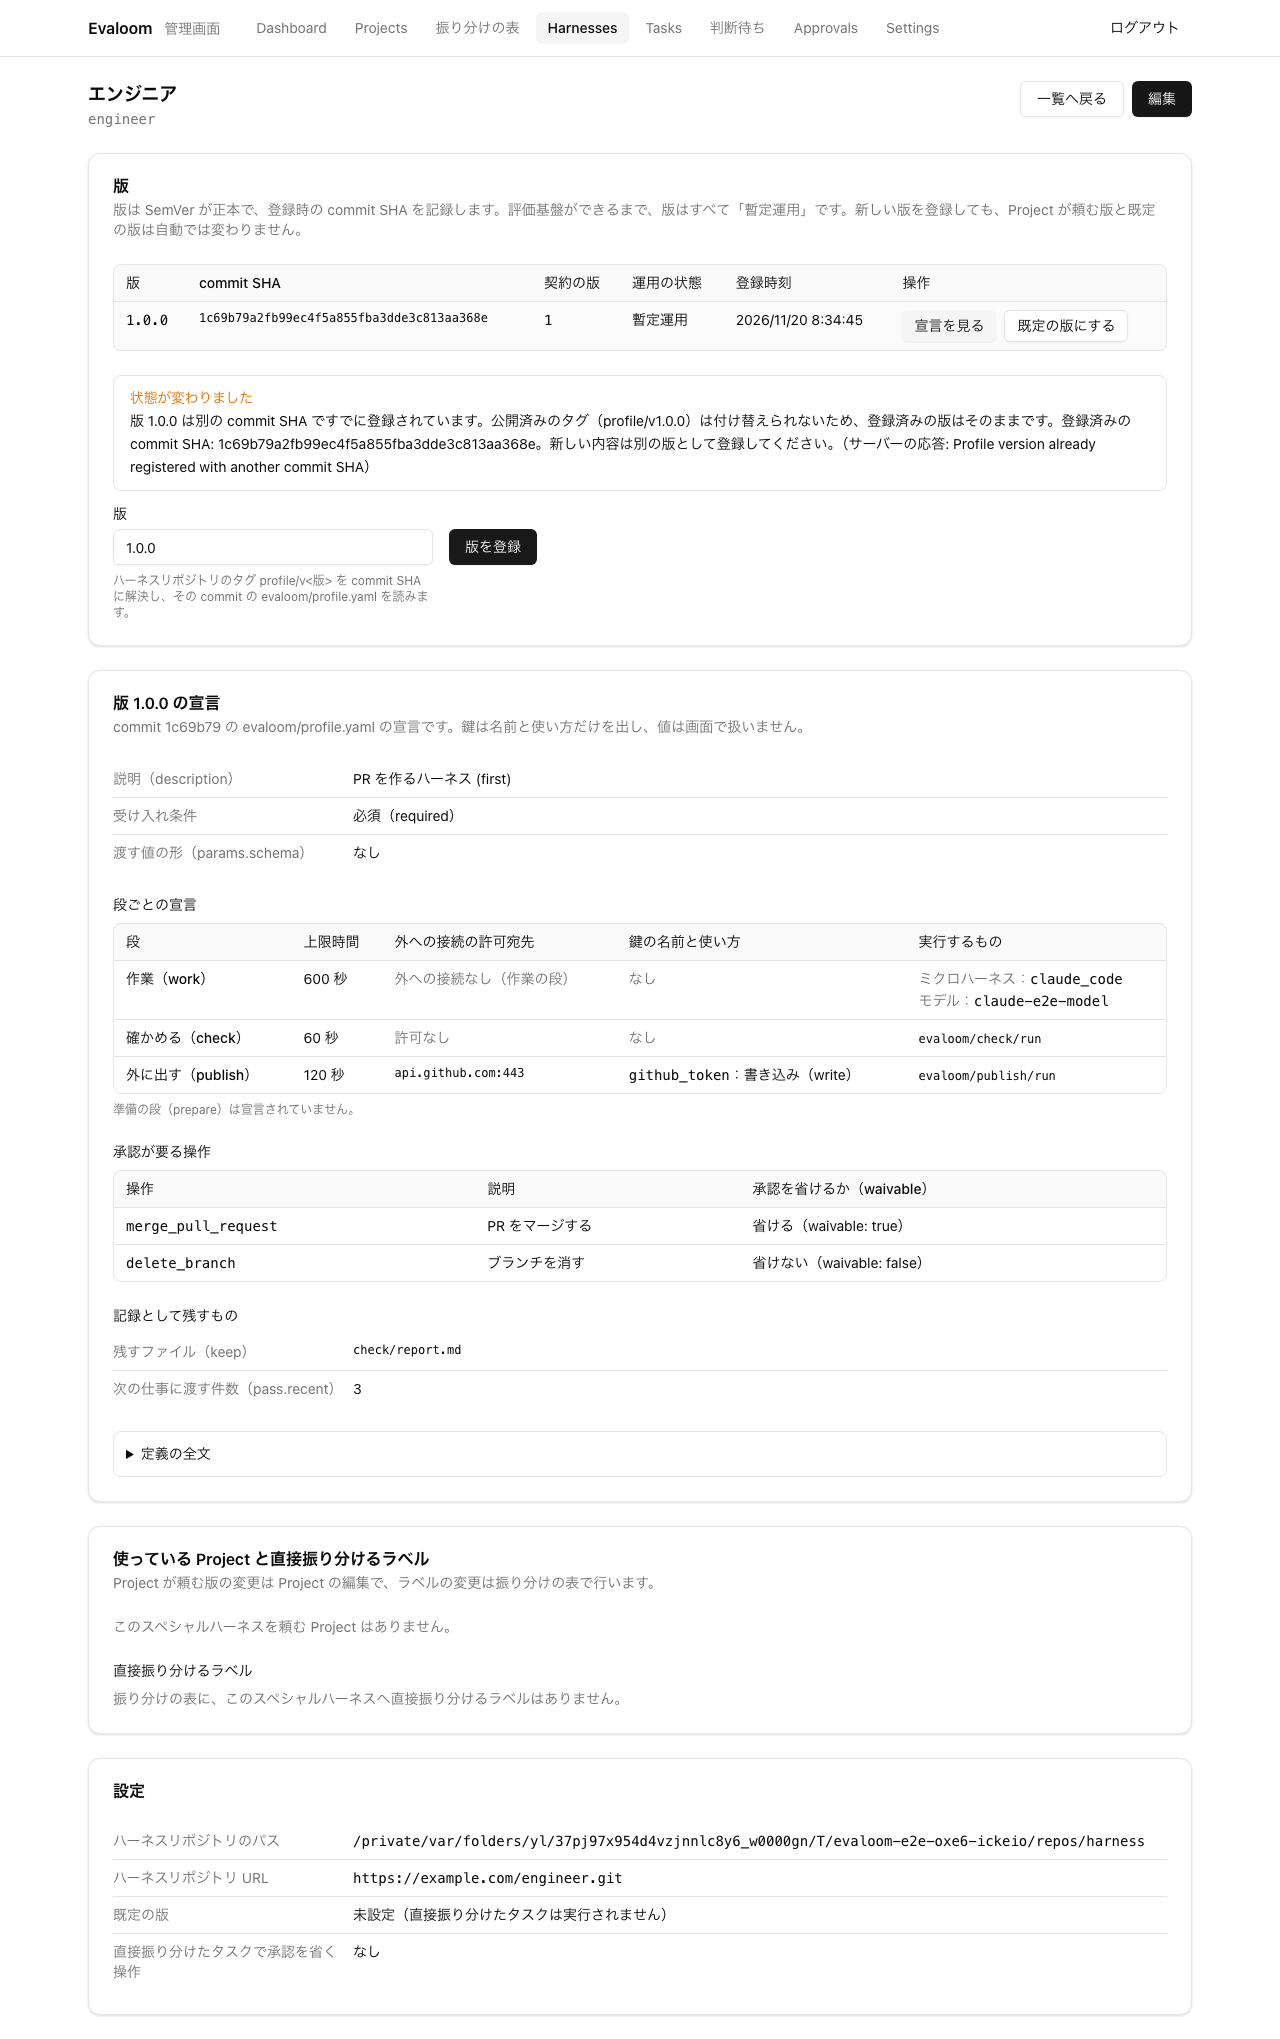
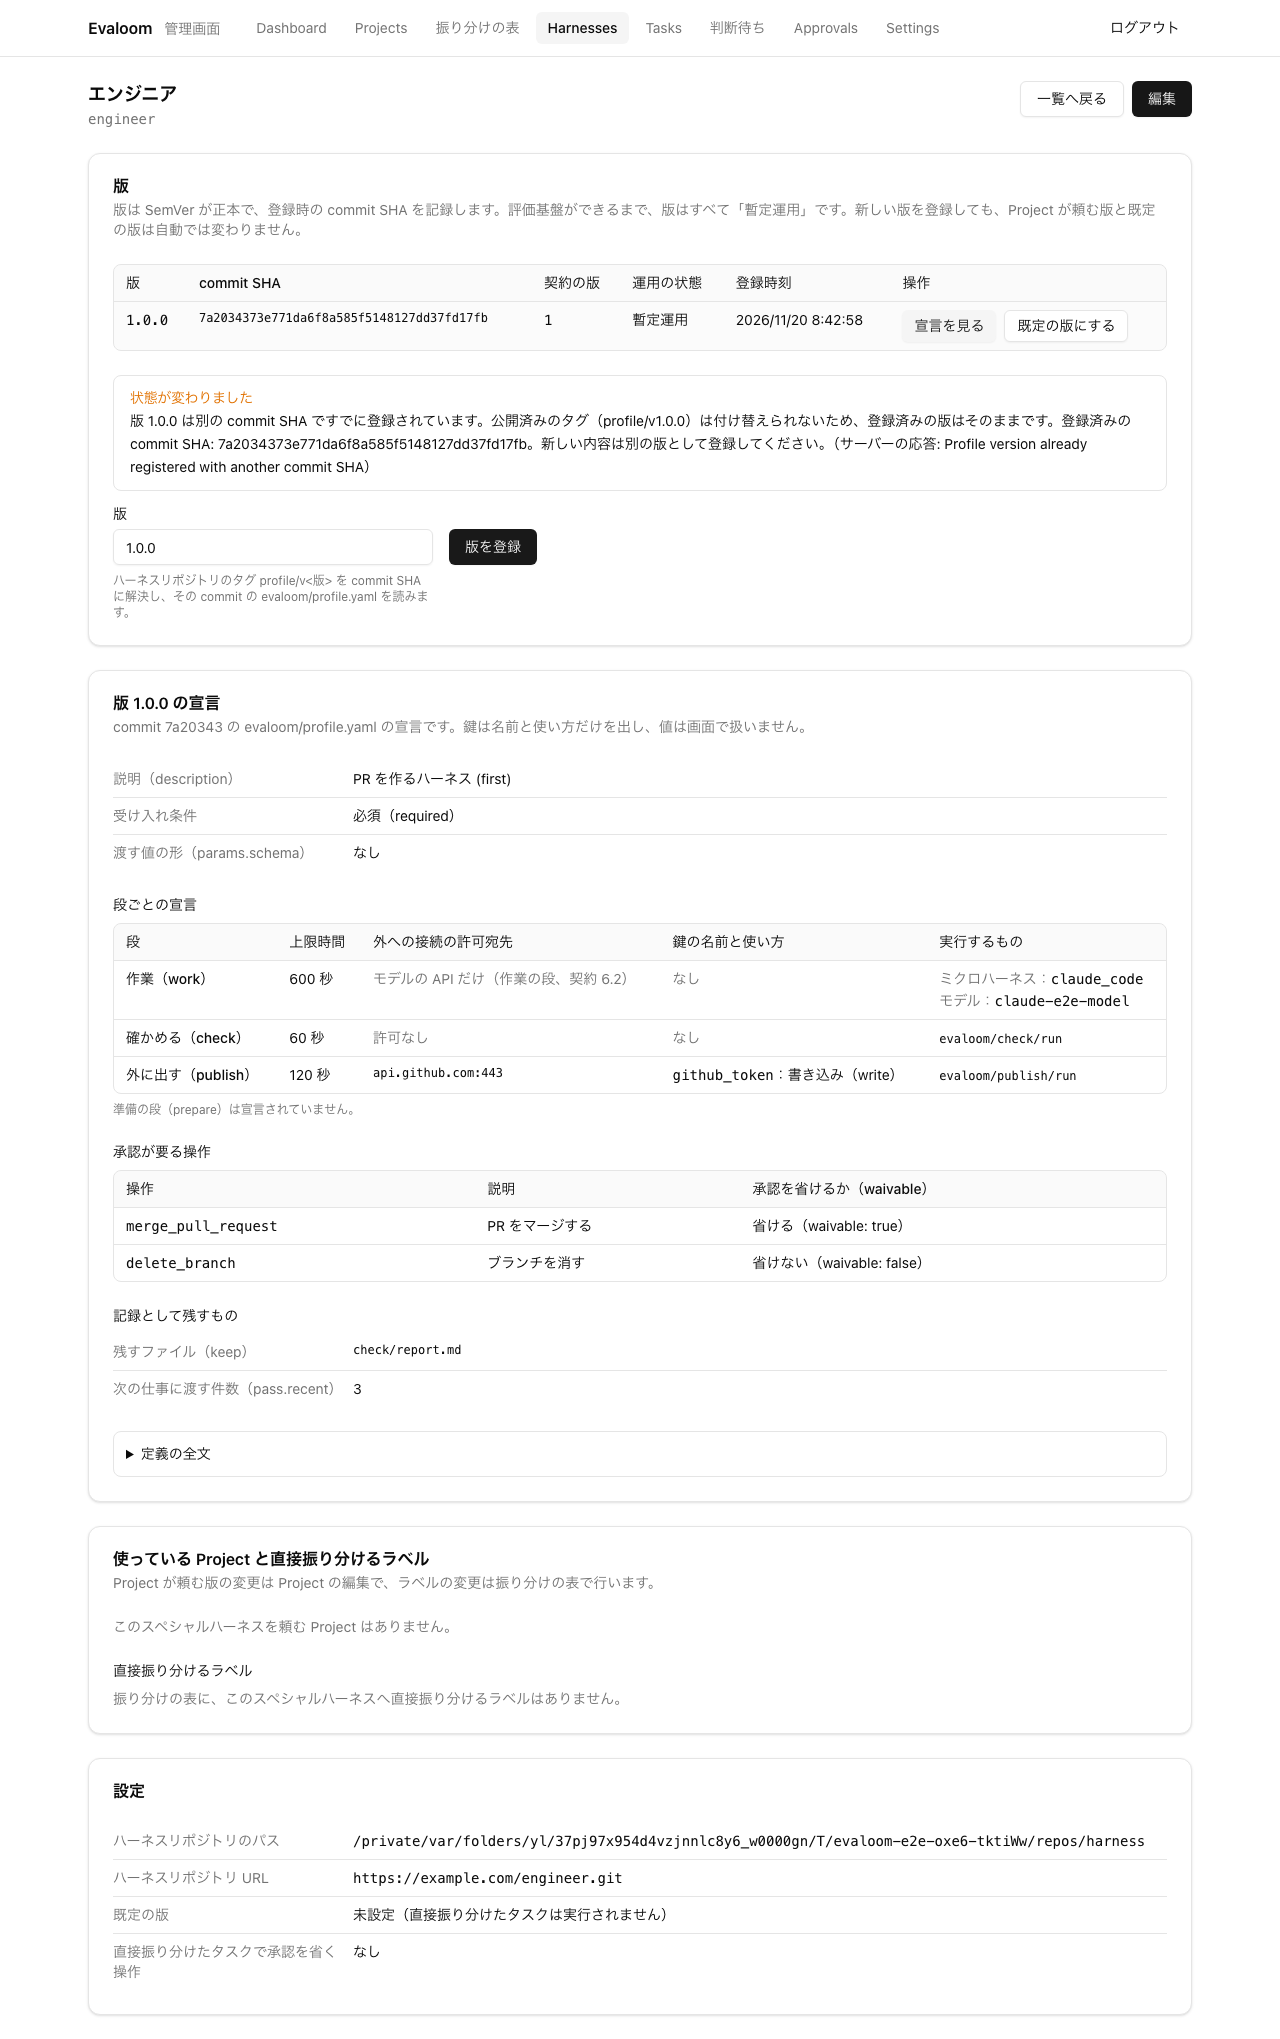
fix(frontend): evaloom-oxe.6 作業の段の外への接続を契約 6.2 どおり「モデルの API だけ」と表示する
- 版の宣言の work 行の固定表示「外への接続なし」を直す
- E2E と単体テストで work 行の接続許可の表示を確かめる
- 単体テストの登録後の遷移先の応答を揃える

diff --git a/frontend/src/pages/harnesses/harness-detail-page.tsx b/frontend/src/pages/harnesses/harness-detail-page.tsx
@@ -289,7 +289,7 @@ function StageRow({ label, stage, work }: { label: string; stage: ProfileProgram
       </th>
       <td className="px-3 py-2 whitespace-nowrap">{timeout === undefined ? '-' : `${timeout} 秒`}</td>
       <td className="px-3 py-2">
-        {work ? <span className="text-muted-foreground">外への接続なし（作業の段）</span> : <List values={stage?.network?.allow} empty="許可なし" />}
+        {work ? <span className="text-muted-foreground">モデルの API だけ（作業の段、契約 6.2）</span> : <List values={stage?.network?.allow} empty="許可なし" />}
       </td>
       <td className="px-3 py-2">
         {work || !stage?.secrets || stage.secrets.length === 0 ? (
